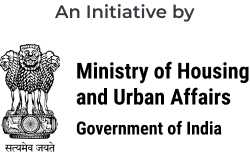
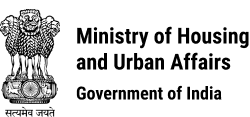
ID-23090 closed

diff --git a/src/app/fiscal-ranking/home/footer/footer.component.html b/src/app/fiscal-ranking/home/footer/footer.component.html
@@ -1,18 +1,16 @@
 <div class="container my-5">
-    <div class="d-flex justify-content-around">
-        <div>
+    <div class="d-flex justify-content-around partners">
+        <div class="item d-flex flex-row flex-column justify-content-between">
             <p class="text-muted">An Initiative by</p>
-            <img src="assets/fiscal-rankings/partner-ministry.png" alt="Ministry of housing and urban affairs"
-                    style="width: 150px;">
+            <img src="assets/fiscal-rankings/partner-ministry.png" alt="Ministry of housing and urban affairs">
         </div>
-        <div>
+        <div class="item d-flex flex-row flex-column justify-content-between">
             <p class="text-muted">knowledge partner</p>
-            <img src="assets/fiscal-rankings/partner-janaagrah.png" alt="Janaagraha" 
-                    style="width: 150px;">
+            <img src="assets/fiscal-rankings/partner-janaagrah.png" alt="Janaagraha">
         </div>
-        <div>
-            <img src="assets/fiscal-rankings/partner-quality-council.png" alt="Quality council"
-                    style="width: 150px;">
+        <div class="item d-flex flex-row flex-column justify-content-between">
+            <p class="text-muted">Quality Council Of India</p>
+            <img src="assets/fiscal-rankings/partner-quality-council.png" alt="Quality council">
         </div>
     </div>
 </div>

diff --git a/src/environments/environment.ts b/src/environments/environment.ts
@@ -28,7 +28,7 @@ if (window.location.hostname.includes("new-cityfinance")) {
 }
 
 
-url = "http://localhost:8080/api/v1/"
+// url = "http://localhost:8080/api/v1/"
 // url = "http://192.168.200.148:8080/api/v1/"
 
 // url = "https://staging.cityfinance.in/api/v1/";

diff --git a/src/app/fiscal-ranking/home/footer/footer.component.scss b/src/app/fiscal-ranking/home/footer/footer.component.scss
@@ -1,0 +1,3 @@
+.item img {
+    width: 200px;
+}
